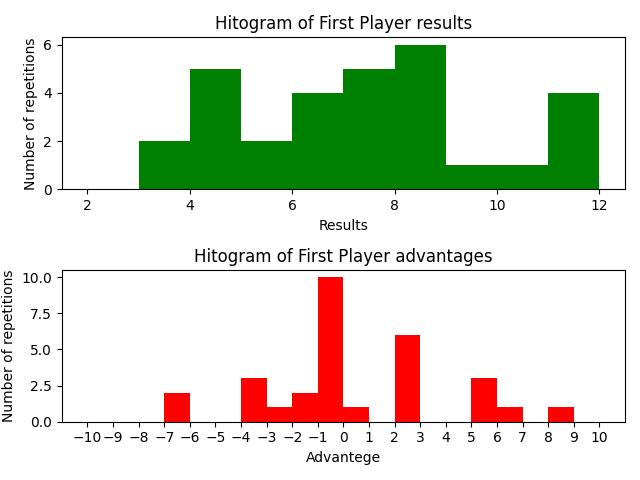
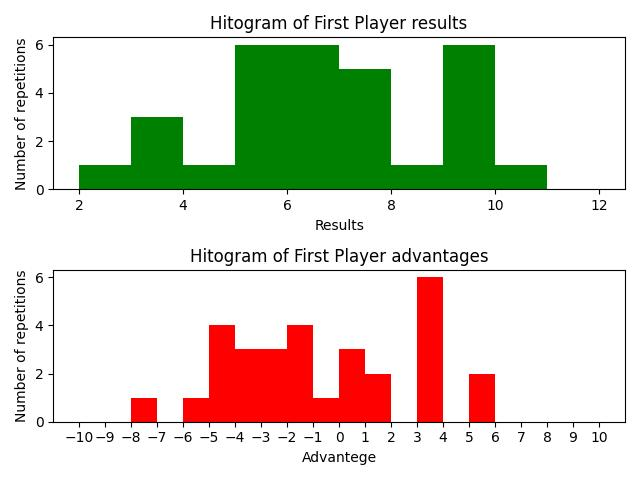
Dependency file added

diff --git a/first/dice.py b/first/dice.py
@@ -1,58 +1,58 @@
-from generators.prand import LCG
+from generators.prand import LCG_CLS
 from scipy import stats
 import matplotlib.pyplot as plt
 import numpy as np
 from collections import Counter
 
 
-class Game:
-    """
-    Deprecated class don't use/read
-    """
-    def __init__(self) -> None:
-        results = {}
-        sum_enabled = True
+# class Game:
+#     """
+#     Deprecated class don't use/read
+#     """
+#     def __init__(self) -> None:
+#         results = {}
+#         sum_enabled = True
 
-    def player(self, games):
-        generator = Generators.LCG(max=6)
-        points = []
-        for _ in range(games):
-            points.append([next(generator), next(generator)])
-        del generator
-        return points
+#     def player(self, games):
+#         generator = Generators.LCG(max=6)
+#         points = []
+#         for _ in range(games):
+#             points.append([next(generator), next(generator)])
+#         del generator
+#         return points
 
-    def play(self, games=30, enable_sum=True):
-        self.results = {"first": self.player(games), "second": self.player(games)}
-        if enable_sum:
-            self.sum_enabled  = True
-            self.results["first"] = list(map(sum, self.results["first"]))
-            self.results["second"] = list(map(sum, self.results["second"]))
-        return self.results
+#     def play(self, games=30, enable_sum=True):
+#         self.results = {"first": self.player(games), "second": self.player(games)}
+#         if enable_sum:
+#             self.sum_enabled  = True
+#             self.results["first"] = list(map(sum, self.results["first"]))
+#             self.results["second"] = list(map(sum, self.results["second"]))
+#         return self.results
 
-    def histogram_plotter(self, player:str):
-        if self.sum_enabled:
-            plt.hist(self.results[player])
-            plt.savefig('./images/dice/dice_' + player + '_hist.jpg')
-        else:
-            print("error")
+#     def histogram_plotter(self, player:str):
+#         if self.sum_enabled:
+#             plt.hist(self.results[player])
+#             plt.savefig('./images/dice/dice_' + player + '_hist.jpg')
+#         else:
+#             print("error")
 
-    def wins_histogram_plotter(self, player:str):
-        temp_results = self.results.copy()
-        if not self.sum_enabled:
-            print("error")
-            return 0
-        first_player = temp_results.pop(player)
-        second_player = list(temp_results.values())
-        temp_results = np.subtract(first_player, second_player).tolist()[0]
-        print(temp_results)
-        data = [x for x in temp_results if x > 0]
+#     def wins_histogram_plotter(self, player:str):
+#         temp_results = self.results.copy()
+#         if not self.sum_enabled:
+#             print("error")
+#             return 0
+#         first_player = temp_results.pop(player)
+#         second_player = list(temp_results.values())
+#         temp_results = np.subtract(first_player, second_player).tolist()[0]
+#         print(temp_results)
+#         data = [x for x in temp_results if x > 0]
 
-        plt.hist(data)
-        plt.savefig("wins_of_" + player + "hist.jpg")
+#         plt.hist(data)
+#         plt.savefig("wins_of_" + player + "hist.jpg")
 
 class Dice:
     def __init__(self):
-        self.generator = LCG()
+        self.generator = LCG_CLS()
         self.first_points = []
         self.second_points = []
         self.advanteges = []
@@ -60,8 +60,10 @@ class Dice:
 
     def roll_dice(self, n: int = 30):
         for _ in range(n):
-            self.first_points.append( self.generator.uniform_restricted(1, 6) +  self.generator.uniform_restricted(1, 6))
-            self.second_points.append( self.generator.uniform_restricted(1, 6) +  self.generator.uniform_restricted(1, 6))
+            self.first_points.append( self.generator.uniform_int(1, 6) +  self.generator.uniform_int(1, 6))
+            self.second_points.append( self.generator.uniform_int(1, 6) +  self.generator.uniform_int(1, 6))
+            # self.first_points.append( self.generator.uniform_restricted(1, 6) +  self.generator.uniform_restricted(1, 6))
+            # self.second_points.append( self.generator.uniform_restricted(1, 6) +  self.generator.uniform_restricted(1, 6))
         for i in range(len( self.first_points)):
              self.advanteges.append( self.first_points[i] -  self.second_points[i])
 
@@ -82,8 +84,6 @@ class Dice:
         axs[1].set_xlabel("Advantege")
         axs[1].set_ylabel("Number of repetitions")
         plt.tight_layout()
-        print(len(self.first_points))
-        print(len(self.advanteges))
         plt.savefig('./images/dice/hist_z3.jpg')
         
 
@@ -91,6 +91,7 @@ if __name__ == "__main__":
     p = Dice()
     p.roll_dice()
     p.generate_histogram()
+    
     # game = Game()
     # print(game.play())
     # game.wins_histogram_plotter("first")

diff --git a/first/archers.py b/first/archers.py
@@ -1,4 +1,4 @@
-from generators.prand import LCG, LCG_CLS
+from generators.prand import LCG_CLS
 from scipy import stats
 import matplotlib.pyplot as plt
 import numpy as np
@@ -11,51 +11,51 @@ from scipy.stats import chisquare
 # TODO: dodaj test dla dwóch średnich niezaleznych
 # https://www.pythonfordatascience.org/independent-samples-t-test-python/
 # 
-class Archers:
-    def __init__(self,  shield_x=8000, shield_y=8000) -> None:
-        self.max_error_distance = 1000
-        self.max_error_x_distance = 900
-        self.max_error_y_distance = 900
-        self.first_points = []
-        self.second_points = []
-        self.shield_x = shield_x
-        self.shield_y = shield_y
-        self.shield_rad = math.sqrt(shield_x ** 2 + shield_y **2)
+# class Archers:
+#     def __init__(self,  shield_x=8000, shield_y=8000) -> None:
+#         self.max_error_distance = 1000
+#         self.max_error_x_distance = 900
+#         self.max_error_y_distance = 900
+#         self.first_points = []
+#         self.second_points = []
+#         self.shield_x = shield_x
+#         self.shield_y = shield_y
+#         self.shield_rad = math.sqrt(shield_x ** 2 + shield_y **2)
 
-    def first(self, tries=10):
-        self.first_points = []
-        distance_generator = Generators.LCG(max=self.max_error_distance)
-        for _ in range(tries):
-            p =next(distance_generator)
-            if p <= self.shield_rad:
-                self.first_points.append(p)
-        return None
+#     def first(self, tries=10):
+#         self.first_points = []
+#         distance_generator = Generators.LCG(max=self.max_error_distance)
+#         for _ in range(tries):
+#             p =next(distance_generator)
+#             if p <= self.shield_rad:
+#                 self.first_points.append(p)
+#         return None
 
-    def second(self, tries=10):
-        self.second_points = []
-        x_genrator = Generators.LCG(max=self.max_error_x_distance)
-        y_genrator = Generators.LCG(max=self.max_error_y_distance)
-        for _ in range(tries):
-            temp = math.sqrt(next(x_genrator) ** 2 + next(y_genrator) ** 2)
-            if temp <= self.shield_rad:
-                self.second_points.append(temp)
-        return None
+#     def second(self, tries=10):
+#         self.second_points = []
+#         x_genrator = Generators.LCG(max=self.max_error_x_distance)
+#         y_genrator = Generators.LCG(max=self.max_error_y_distance)
+#         for _ in range(tries):
+#             temp = math.sqrt(next(x_genrator) ** 2 + next(y_genrator) ** 2)
+#             if temp <= self.shield_rad:
+#                 self.second_points.append(temp)
+#         return None
         
-    def compare(self, with_mean=True):
-        if with_mean:
-            p = statistics.mean(np.subtract(self.first_points, self.second_points).tolist())
-        else:
-            p = np.subtract(self.first_points, self.second_points).tolist()
-        # print(p)
-        return p
+#     def compare(self, with_mean=True):
+#         if with_mean:
+#             p = statistics.mean(np.subtract(self.first_points, self.second_points).tolist())
+#         else:
+#             p = np.subtract(self.first_points, self.second_points).tolist()
+#         # print(p)
+#         return p
 
-    def simulate(self, simulation=20):
-        temp = []
-        for _ in range(simulation):
-            self.first()
-            self.second()
-            temp.append(self.compare())
-        print(temp)
+#     def simulate(self, simulation=20):
+#         temp = []
+#         for _ in range(simulation):
+#             self.first()
+#             self.second()
+#             temp.append(self.compare())
+#         print(temp)
         
 
 def archery(rounds: int = 10, size: int = 1220) -> dict:
@@ -64,7 +64,7 @@ def archery(rounds: int = 10, size: int = 1220) -> dict:
     archer1_data = {'scores': [], 'points': [], 'distances': []}
     archer2_data = {'scores': [], 'points': [], 'distances': []}
     for _ in range(rounds):
-        p = LCG()
+        p = LCG_CLS()
         archer1_score, archer2_score = 0, 0
         radius = size * 0.5
 

diff --git a/first/generators/prand.py b/first/generators/prand.py
@@ -6,41 +6,40 @@ from scipy.stats import chisquare
 import math
 import time
 
-# TODO: uporządkować cały bałagan
 
-class LCG:
-    def __init__(self) -> None:
-        self.a=1103515245
-        self.c=12345
-        self.m=pow(2, 31)
-        self.seed = 0
+# class LCG:
+#     def __init__(self) -> None:
+#         self.a=1103515245
+#         self.c=12345
+#         self.m=pow(2, 31)
+#         self.seed = 0
 
-    def __seed(self):
-        """Seed generator using system time"""
-        self.seed = round(datetime.now().timestamp()*10009)
-        # print("Generating seed ..." + str(self.seed))
+#     def __seed(self):
+#         """Seed generator using system time"""
+#         self.seed = round(datetime.now().timestamp()*10009)
+#         # print("Generating seed ..." + str(self.seed))
 
-    def generate(self):
-        self.__seed()
-        time.sleep(0.001)
-        # print(self.seed)
-        return (self.a*self.seed + self.c) % self.m
+#     def generate(self):
+#         self.__seed()
+#         time.sleep(0.001)
+#         # print(self.seed)
+#         return (self.a*self.seed + self.c) % self.m
 
-    def uniform(self):
-        temp = self.generate() / self.m
-        return temp
+#     def uniform(self):
+#         temp = self.generate() / self.m
+#         return temp
 
-    def uniform_range(self, start: float, end: float):
-        # generates random float
-        temp = (end - start) * self.uniform() + start
-        print(str(temp) + " <" + str(self.seed) + ">")
-        return temp
+#     def uniform_range(self, start: float, end: float):
+#         # generates random float
+#         temp = (end - start) * self.uniform() + start
+#         print(str(temp) + " <" + str(self.seed) + ">")
+#         return temp
     
-    def uniform_restricted(self, start: float, end: float):
-        # Generates random int value
-        temp = math.floor(abs(1 + end - start) * self.uniform() + start)
-        # print(str(temp) + " <" + str(self.seed) + ">")
-        return temp
+#     def uniform_restricted(self, start: float, end: float):
+#         # Generates random int value
+#         temp = math.floor(abs(1 + end - start) * self.uniform() + start)
+#         # print(str(temp) + " <" + str(self.seed) + ">")
+#         return temp
 
 
 class LCG_CLS:
@@ -105,9 +104,46 @@ class LCG_CLS:
 
 
 if __name__ == "__main__":
-    p = LCG()
-    for _ in range(100):
-        print(p.uniform_restricted(0, 2*math.pi))
+    dataset = []
+    for _ in range(800):
+        dataset.append(LCG_CLS().uniform_int(1.0, 5.0))
+
+    distribution = list(Counter(dataset).values())
+    dist, pvalue = chisquare(distribution)
+    uni = 'YES' if pvalue > 0.05 else 'NO'
+    print('----------------------------------------------------------------')
+    print(f"| Value:{dist:12.3f} | p-value: {pvalue:12.8f} Uniform: {uni:^8} |")
+
+
+
+
+
+
+
+
+
+
+
+
+
+
+
+
+
+
+
+
+
+
+
+
+
+
+
+
+
+
+
     # temp = []
     # for _ in range(100):
     #     temp.append(p.uniform_restricted(1, 3))

diff --git a/first/kpn.py b/first/kpn.py
@@ -1,4 +1,4 @@
-from generators.prand import LCG
+from generators.prand import LCG_CLS
 import matplotlib.pyplot as plt
 from collections import Counter
 from generators.prand import LCG
@@ -41,9 +41,11 @@ def play():
     # 1 - draw
     # 0 - lost
 
-    gen = LCG()
-    first = [gen.uniform_restricted(1, 3) for _ in range(100)]
-    second = [gen.uniform_restricted(1, 3) for _ in range(100)]
+    gen = LCG_CLS()
+    first = [gen.uniform_int(1, 3) for _ in range(100)]
+    second = [gen.uniform_int(1, 3) for _ in range(100)]
+    # first = [gen.uniform_restricted(1, 3) for _ in range(100)]
+    # second = [gen.uniform_restricted(1, 3) for _ in range(100)]
 
     dataset = list(Counter(second).values())
     dist, pvalue = chisquare(dataset)
